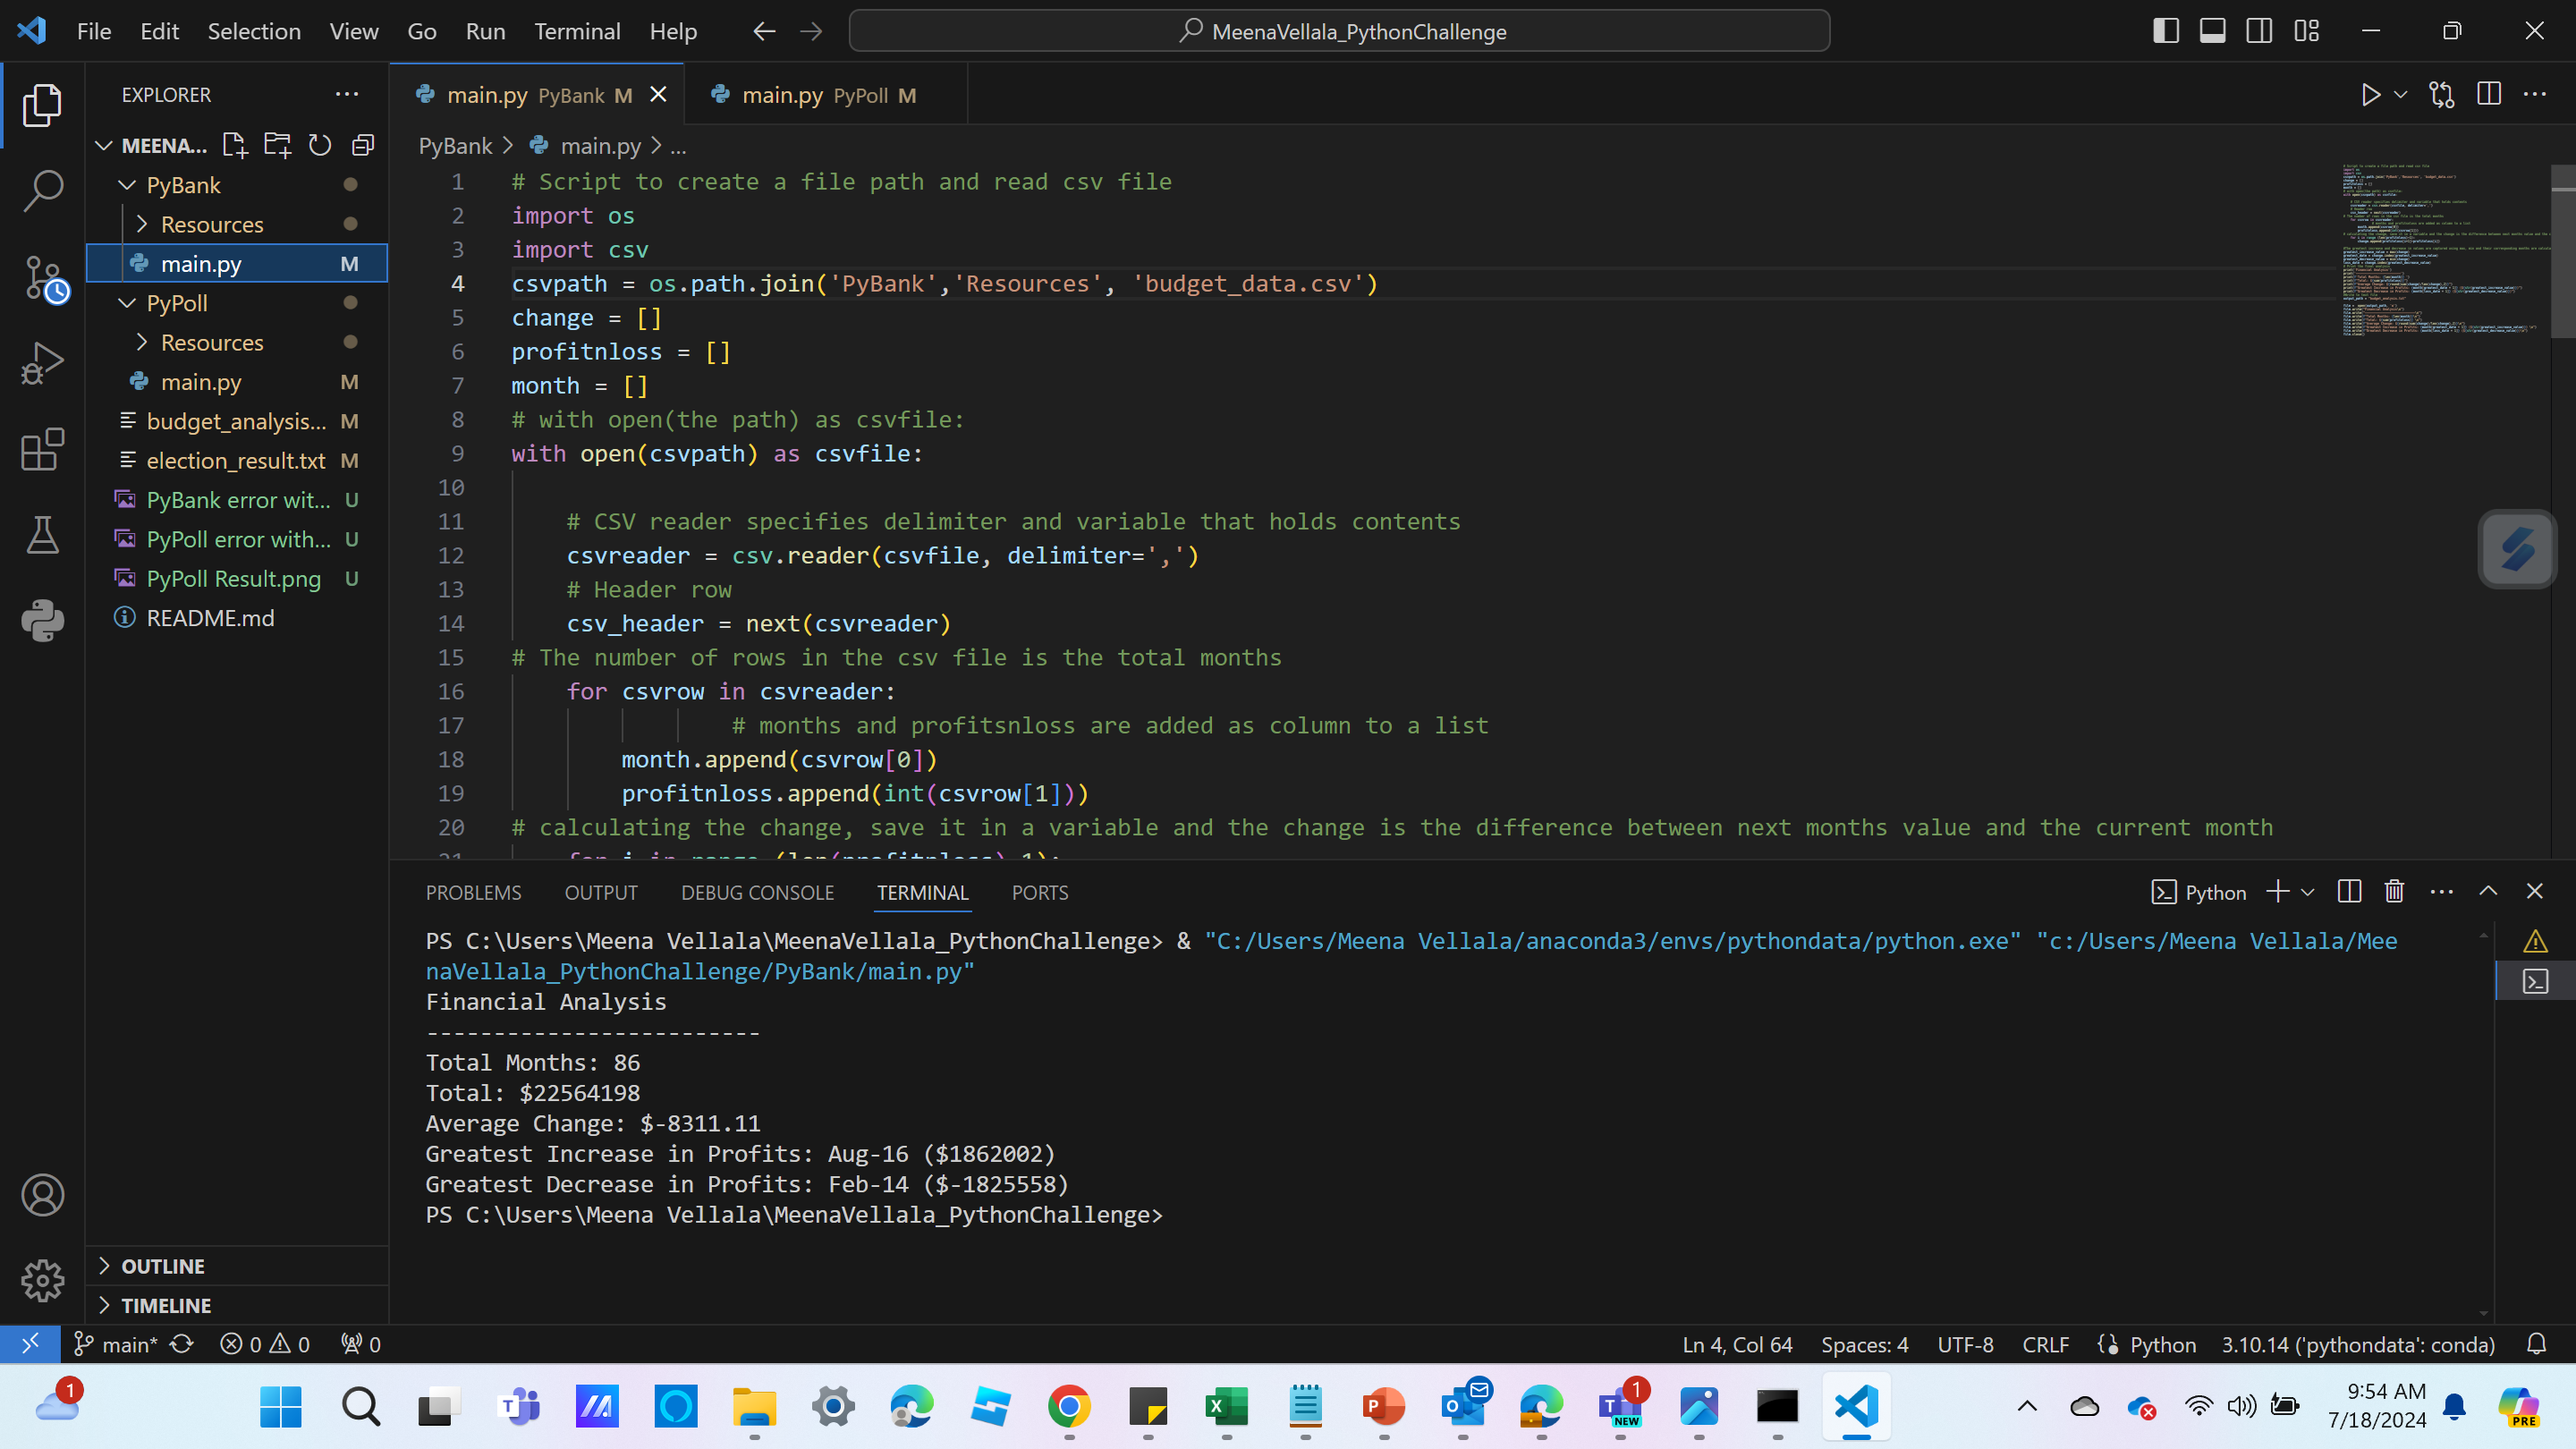
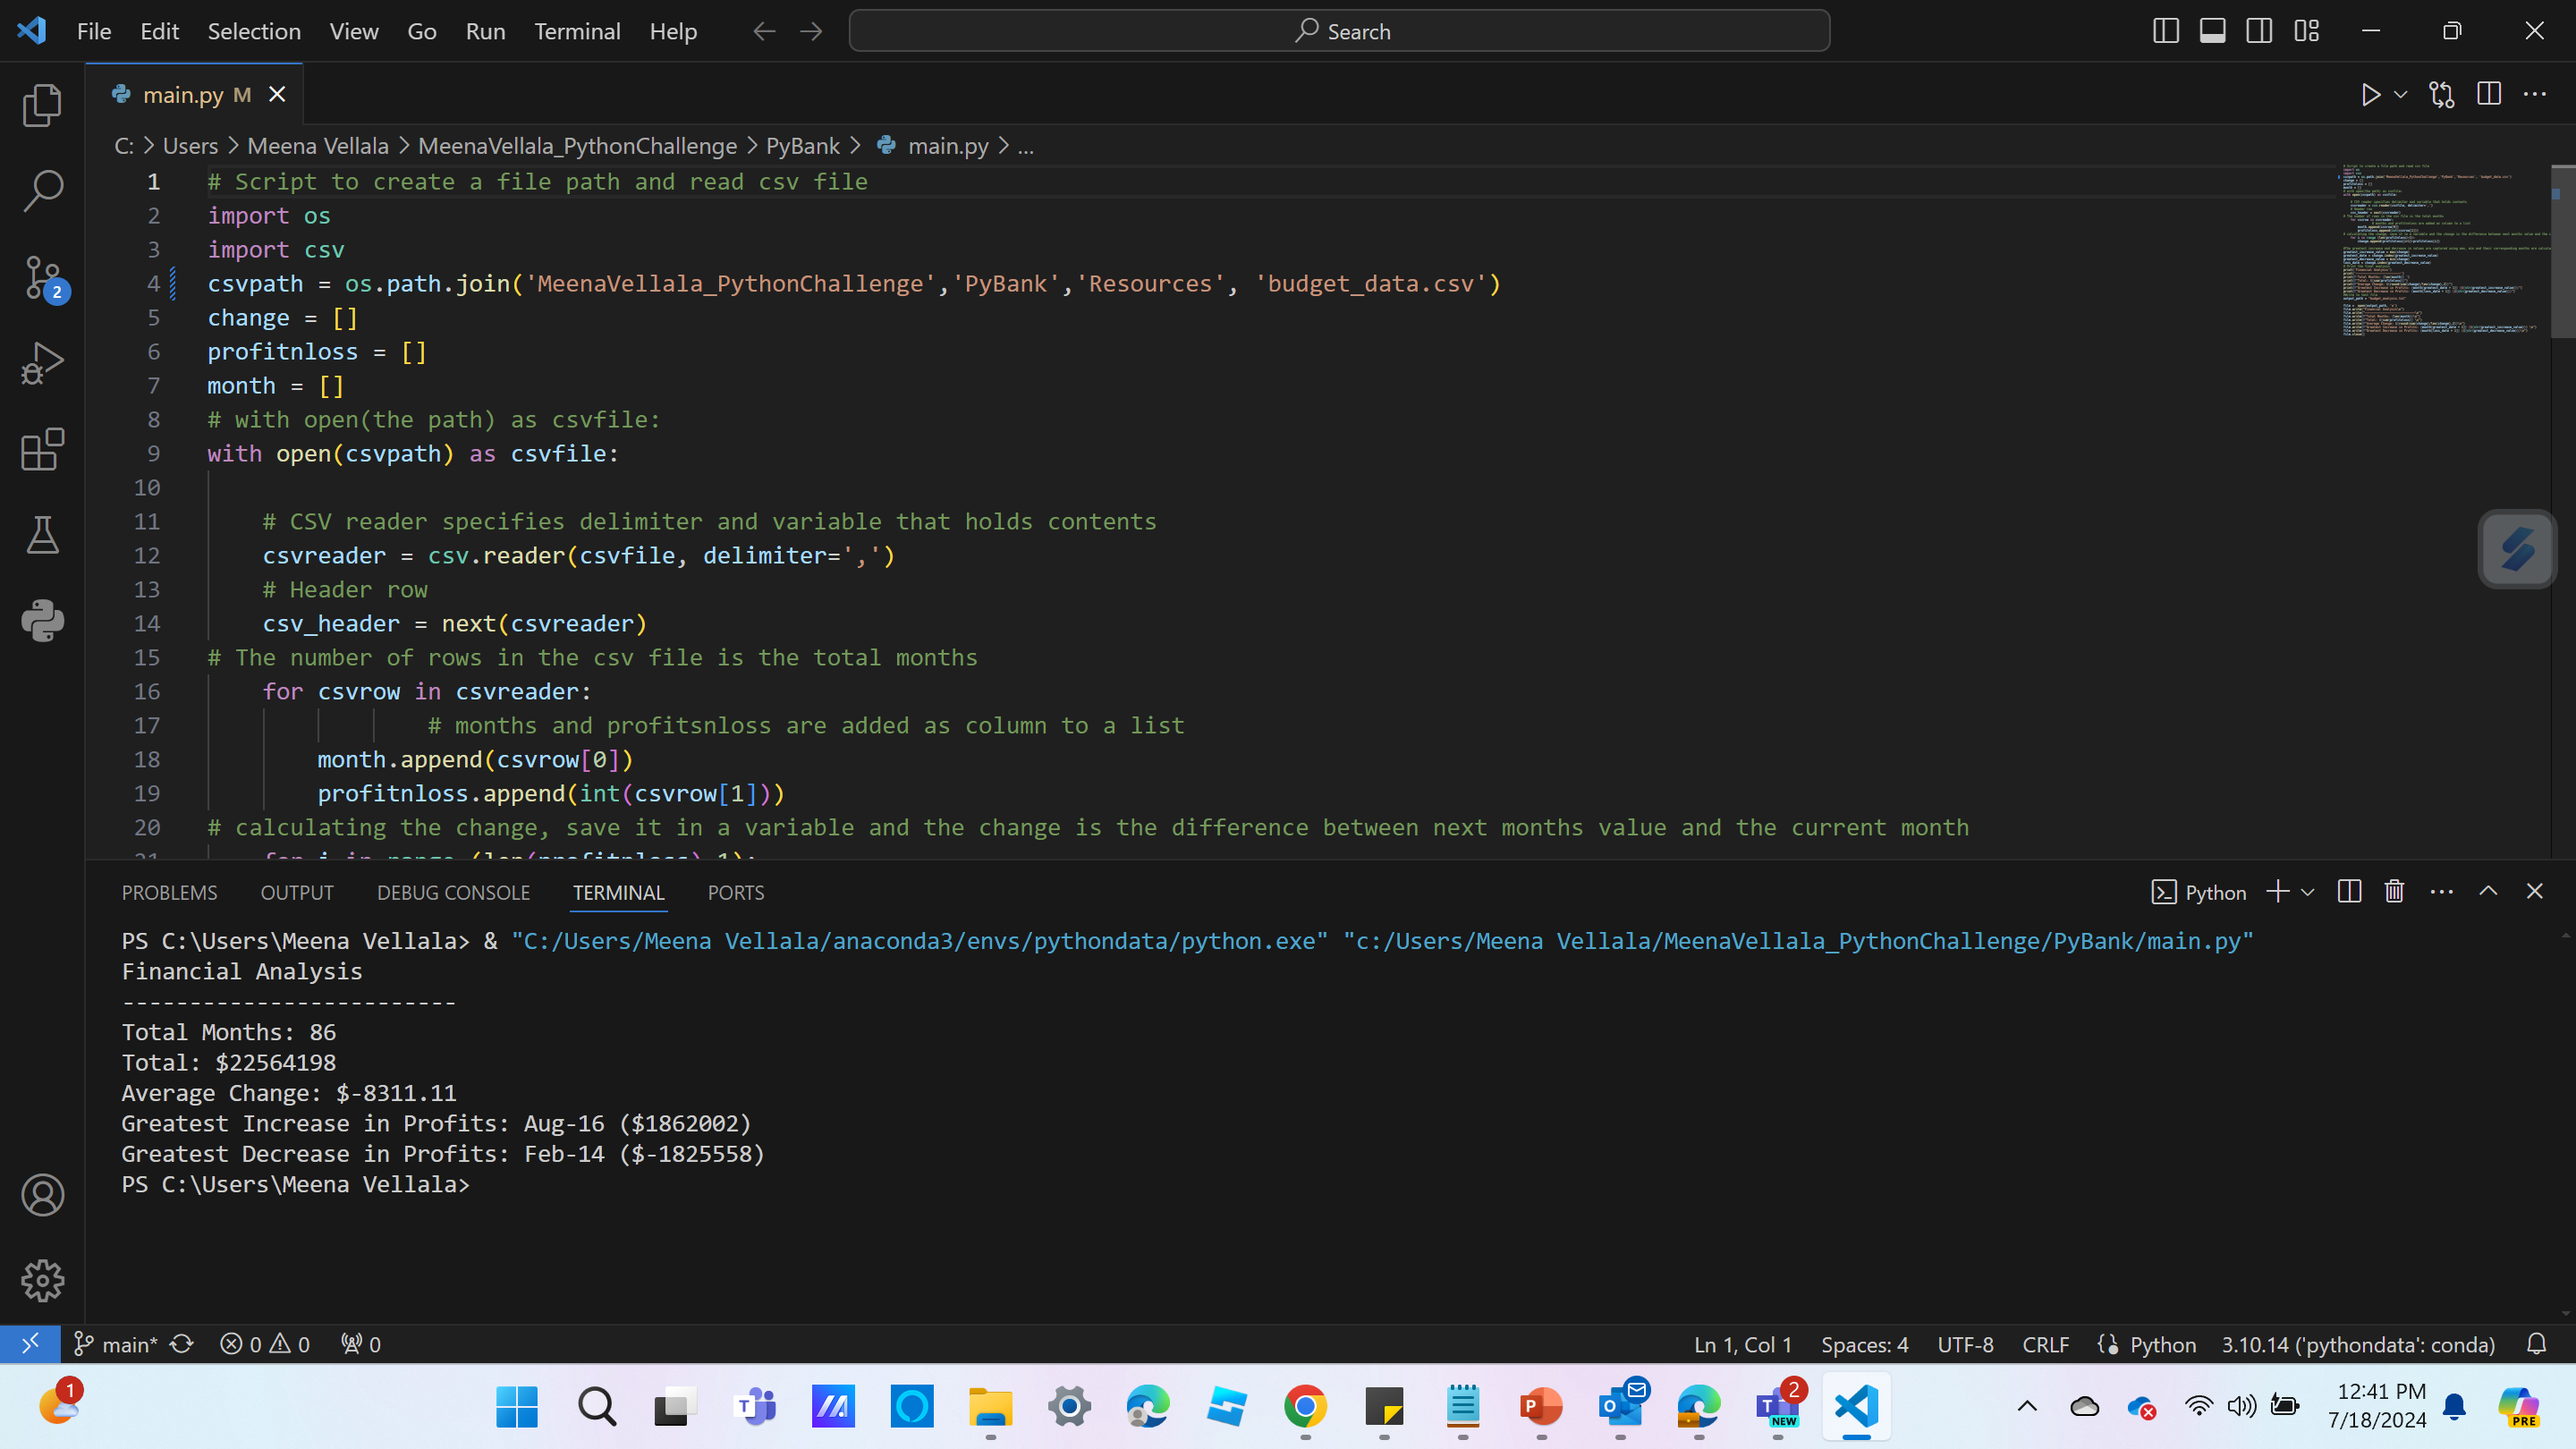
new path added

diff --git a/PyPoll/main.py b/PyPoll/main.py
@@ -1,7 +1,7 @@
 # Script to create a file path and read csv file
 import os
 import csv
-csvpath = os.path.join('PyPoll','Resources', 'election_data.csv')
+csvpath = os.path.join('MeenaVellala_PythonChallenge','PyPoll','Resources', 'election_data.csv')
 votes = []
 charles_casper_stockham = 0
 diana_degette = 0

diff --git a/PyBank/main.py b/PyBank/main.py
@@ -1,7 +1,7 @@
 # Script to create a file path and read csv file
 import os
 import csv
-csvpath = os.path.join('PyBank','Resources', 'budget_data.csv')
+csvpath = os.path.join('MeenaVellala_PythonChallenge','PyBank','Resources', 'budget_data.csv')
 change = []
 profitnloss = []
 month = []
